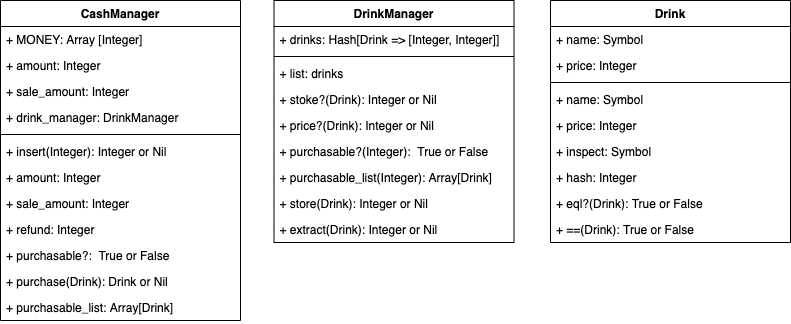
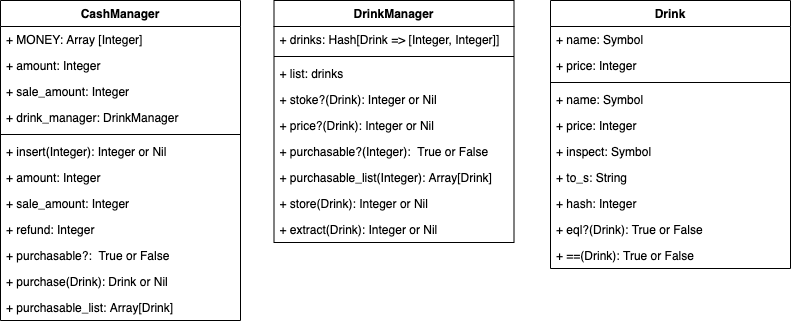
fix:Drinkクラスのエラー修正

diff --git a/test/drink_test.rb b/test/drink_test.rb
@@ -1,0 +1,35 @@
+require "minitest/autorun"
+require_relative "../lib/drink"
+
+class DrinkTest < Minitest::Test
+  def setup
+    @coke = Drink.new(:coke, 120)
+  end
+
+  def test_inspect
+    assert_equal @coke.inspect, @coke.name
+  end
+  def test_to_s
+    assert_equal @coke.to_s, @coke.name.to_s
+  end
+
+  def test_eql_when_same_drink_and_same_class
+    assert @coke.eql?(Drink.new(:coke, 120))
+  end
+  def test_eql_when_different_drink_and_same_class
+    refute @coke.eql?(Drink.new(:water, 100))
+  end
+  def test_eql_when_different_drink_and_different_class
+    refute @coke.eql?(:coke)
+  end
+
+  def test_equal_when_same_drink_and_same_class
+    assert @coke == Drink.new(:coke, 120)
+  end
+  def test_equal_when_different_drink_and_same_class
+    refute @coke == Drink.new(:water, 100)
+  end
+  def test_eql_when_different_drink_and_different_class
+    refute @coke == :coke
+  end
+end

diff --git a/lib/Drink.rb b/lib/Drink.rb
@@ -1,5 +1,5 @@
 class Drink
-  atter_reader :name, :price
+  attr_reader :name, :price
 
   def initialize(name, price)
     @name = name
@@ -8,6 +8,10 @@ class Drink
 
   def inspect
     name
+  end
+
+  def to_s
+    name.to_s
   end
 
   def hash
